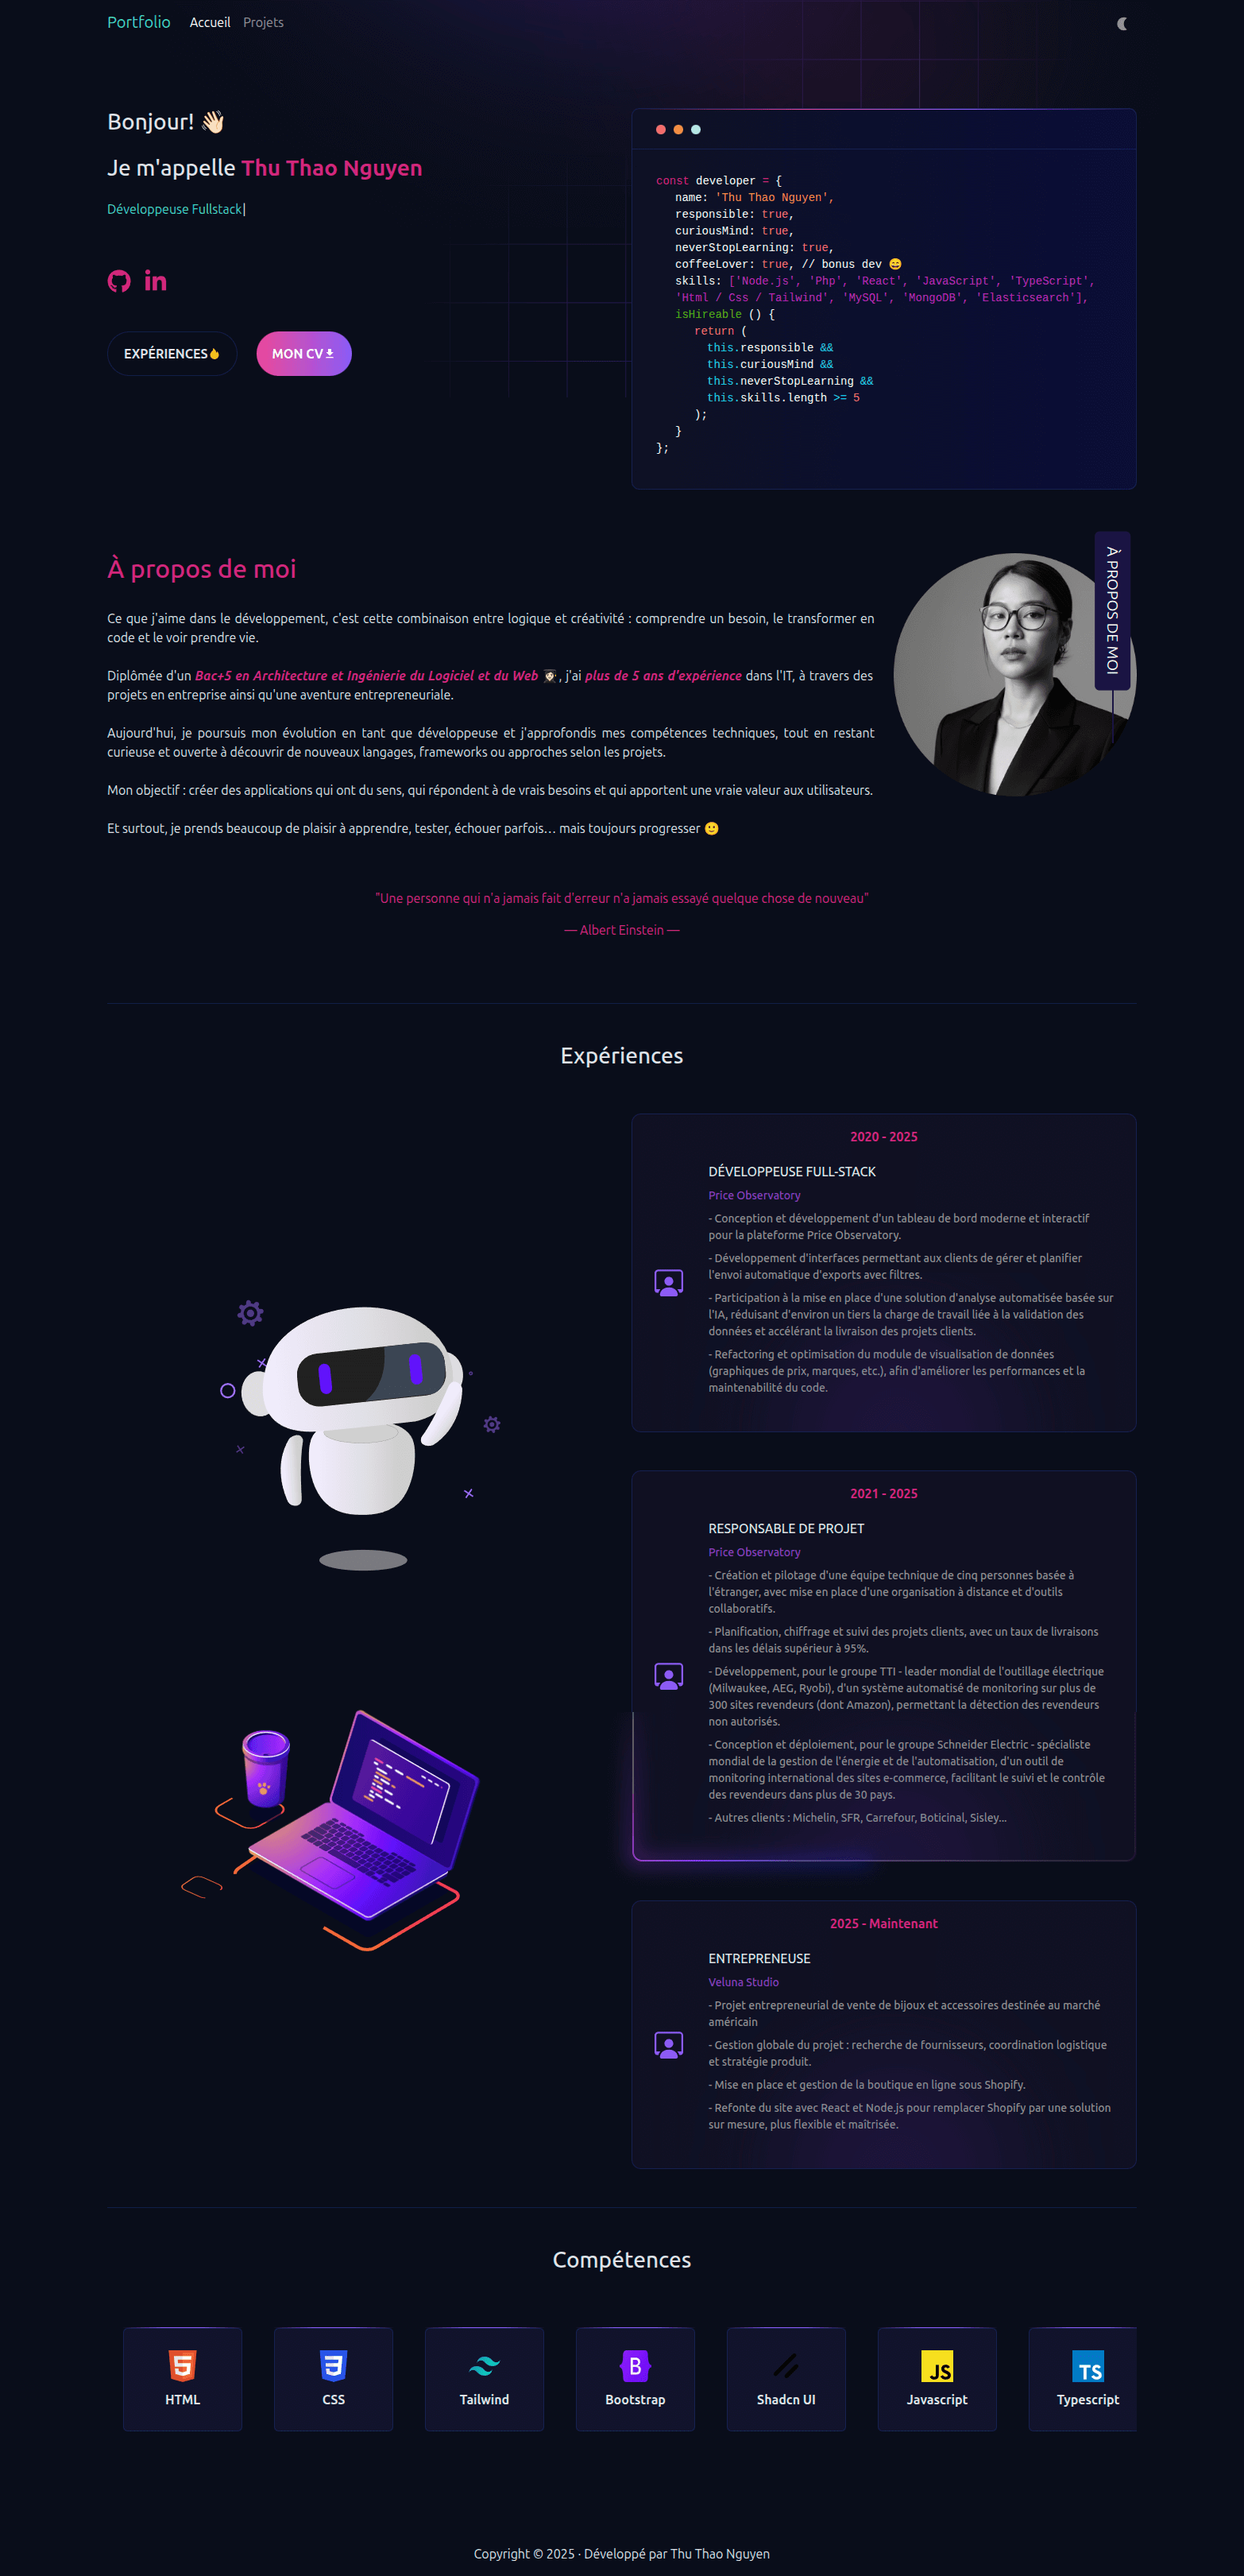
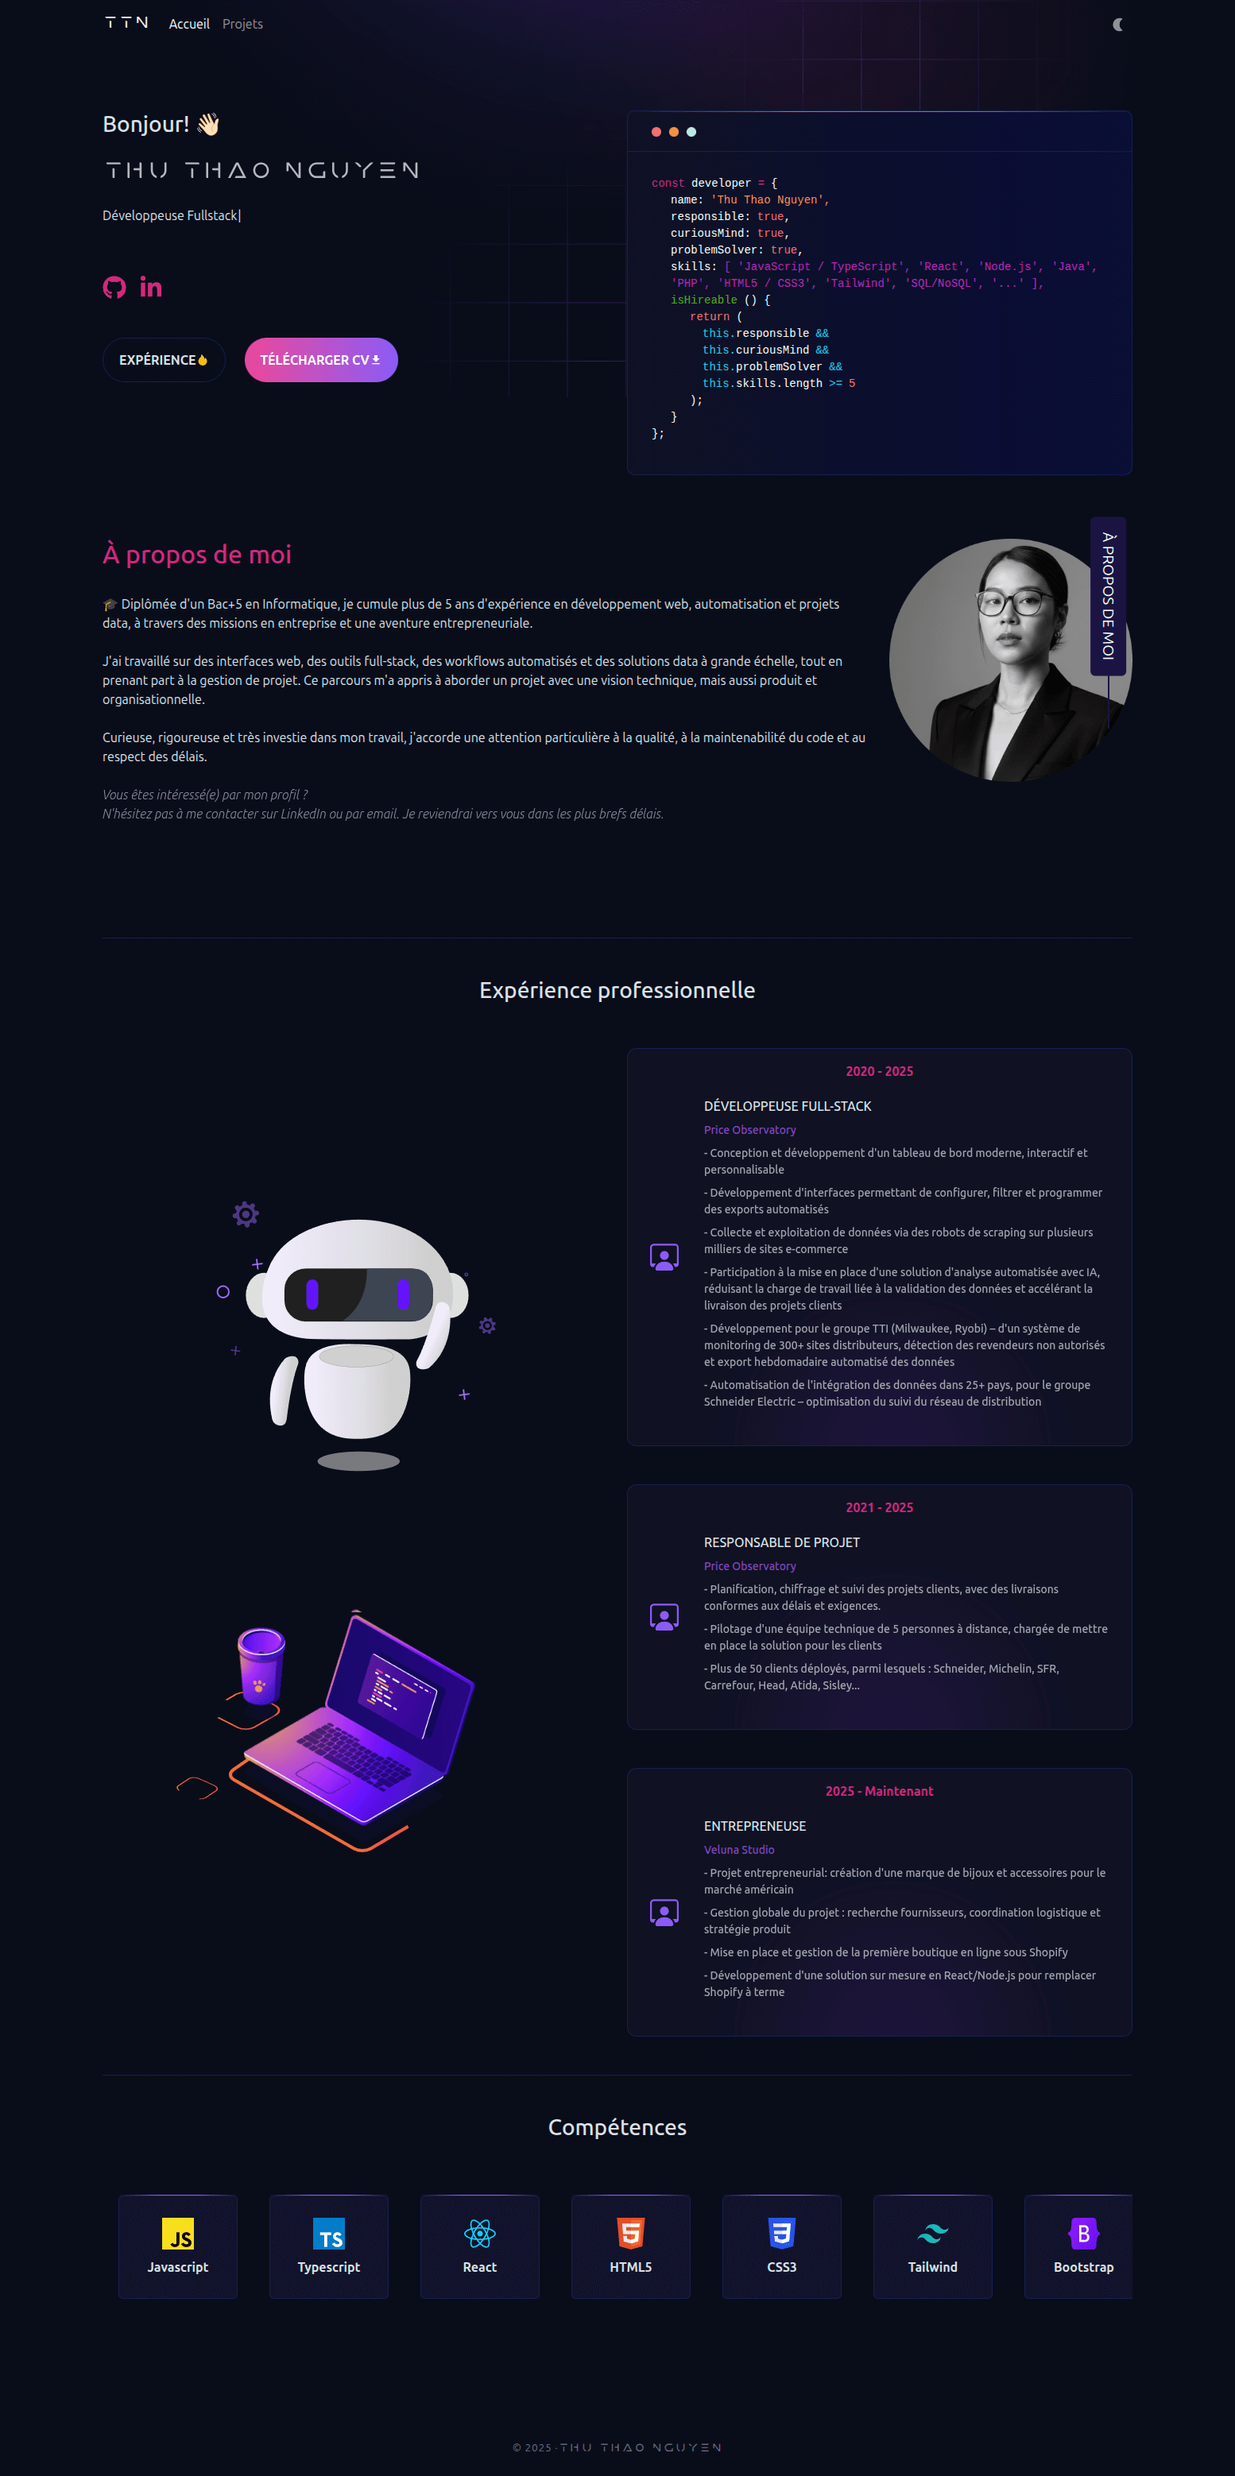
update profile

diff --git a/src/components/sections/introduction/index.tsx b/src/components/sections/introduction/index.tsx
@@ -16,22 +16,30 @@ const Introduction = () => {
                     </h2>
                     <br />
                     <p>
-                        🎓 {t("introSection.heading2")}&nbsp;
+                        {/* 🎓 {t("introSection.heading2")}&nbsp;
                         <b className='text-pink-100'>{t("introSection.heading3")}</b>
                         {t("introSection.heading4")}&nbsp;
                         <b className='text-pink-100'>{t("introSection.heading5")}&nbsp;</b>
                         {t("introSection.heading6")}
                         <br />
-                        <br />
+                        <br /> */}
 
-                        {/* {t("introSection.heading1")} */}
-                        Mon parcours, entre développement web et gestion de projet, m'a appris à aborder un projet avec une vision technique mais aussi organisationnelle.
+                        🎓 Diplômée d'un Bac+5 en Informatique, je cumule plus de 5 ans d'expérience en développement web, automatisation et projets data, à travers des missions en entreprise et une aventure entrepreneuriale.
                         <br />
                         <br />
-                        Curieuse, rigoureuse et très investie dans le travail, j'accorde une vraie importance à la qualité, à la maintainabilité du code et au respect des délais, ainsi qu'à la cohérence des solutions que je mets en place.
+                        J'ai travaillé sur des technologies web, des outils full-stack, des workflows automatisés et des solutions data/IA, tout en prenant part à la gestion de projet. Ce parcours m'a appris à aborder un projet avec une vision technique, mais aussi produit et organisationnelle.
                         <br />
                         <br />
-                        Vous êtes intéressé(e) par mon profil ? N'hésitez pas à me contacter sur LinkedIn ou par email. Je reviendrai vers vous dans les plus brefs délais.
+                        Curieuse, rigoureuse et très investie dans mon travail, j'accorde une attention particulière à la qualité, à la maintenabilité du code et au respect des délais.
+                        <br />
+                        <br />
+                        <i>
+                            <span className='fw-light' style={{ opacity: 0.6 }}>
+                                Vous êtes intéressé(e) par mon profil ?
+                                <br />
+                                N'hésitez pas à me contacter sur LinkedIn ou par email. Je reviendrai vers vous dans les plus brefs délais.
+                            </span>
+                        </i>
 
                         {/* <br />
                         <br />
@@ -56,12 +64,14 @@ const Introduction = () => {
                 <span className="about-label">{t("introSection.about")}</span>
                 <span className="vertical-line"></span>
             </div>
+
+            {/* <br />
             <br />
-            <br />
-            {/* <div>
+            <div>
                 <p className="text-center brand-red">"{t("introSection.quote")}"</p>
                 <p className="text-center brand-red">— Albert Einstein —</p>
             </div> */}
+
         </section >
     )
 }

diff --git a/src/helpers/data.ts b/src/helpers/data.ts
@@ -8,7 +8,7 @@ import velunaImg from 'assets/project/veluna.png';
 export const APP_DATA = {
     GITHUB_URL: "https://github.com/git-thu-thao-nguyen",
     LINKEDIN_URL: "https://www.linkedin.com/in/thuthao-ng/",
-    CV_URL: "https://drive.google.com/file/d/1fF0rTBSKGmtBAW32npSf3zwUOOnS40dt/view"
+    CV_URL: "https://drive.google.com/drive/u/0/folders/1NESMx4tEU6bCdxxrV-DPkl9FNKqgj9R6"
 }
 
 export const EXPERIENCES = [
@@ -77,7 +77,7 @@ export const EXPERIENCES = [
         },
         description: {
             fr: [
-            "Projet entrepreneurial: création d'une marque de bijoux et accessoires pour le marché américain",
+            "Projet entrepreneurial : création d'une marque e-commerce destinée au marché US",
             "Gestion globale du projet : recherche fournisseurs, coordination logistique et stratégie produit",
             "Mise en place et gestion de la première boutique en ligne sous Shopify",
             "Développement d'une solution sur mesure en React/Node.js pour remplacer Shopify à terme"

diff --git a/src/pages/project.tsx b/src/pages/project.tsx
@@ -15,7 +15,7 @@ const ProjectPage = () => {
                 zIndex: 0
             }}>
             </div>
-            <section className="mt-md-5 mt-2 pt-md-5 pt-0">
+            <section className="mt-md-5 mt-2 pt-md-3 pt-0">
                 <Container className="position-relative">
                     <Project />
                 </Container>
